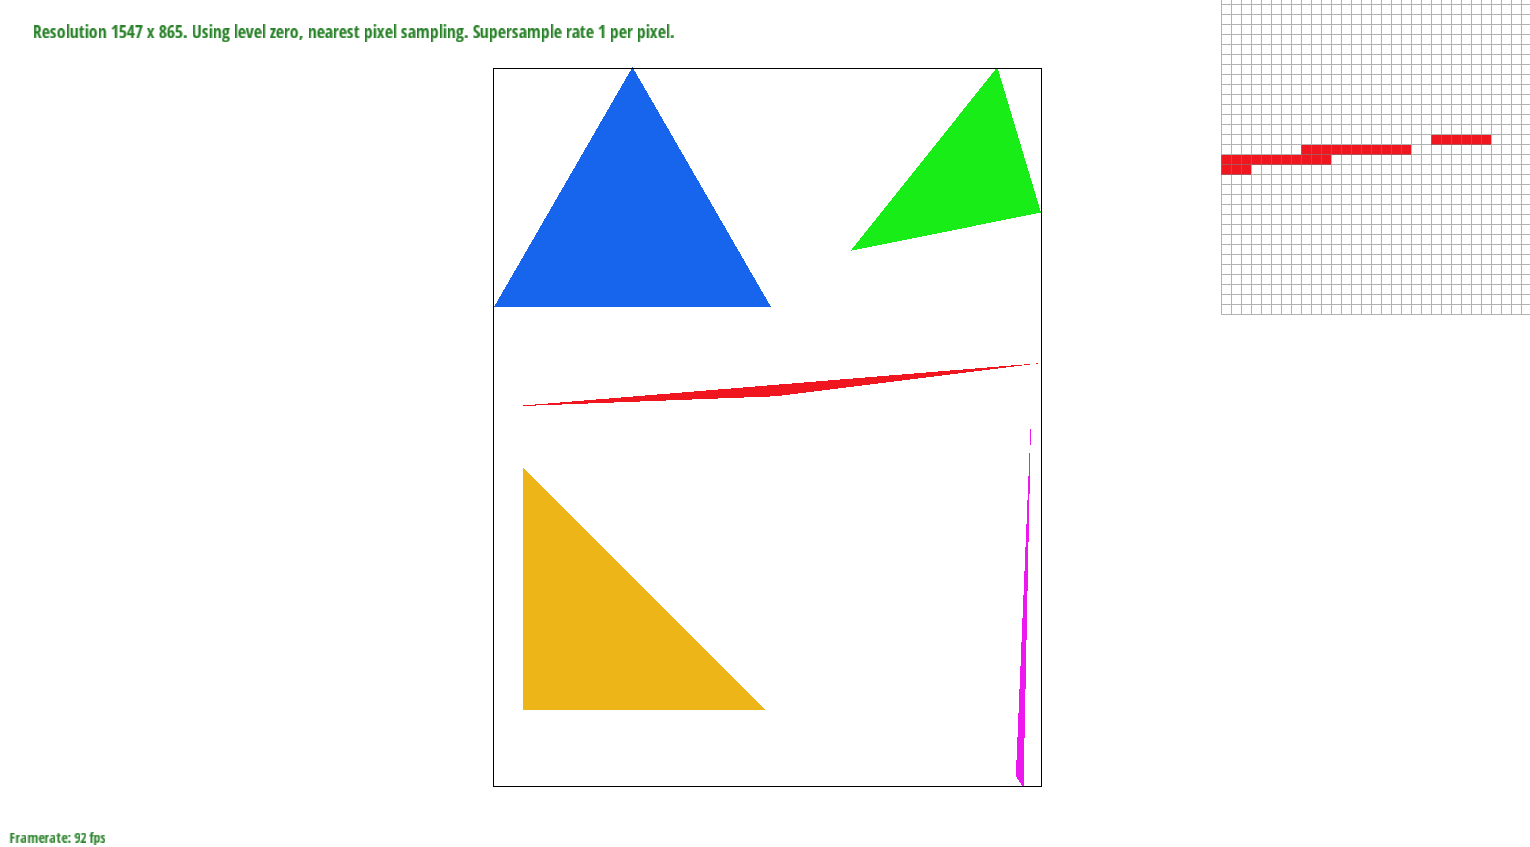
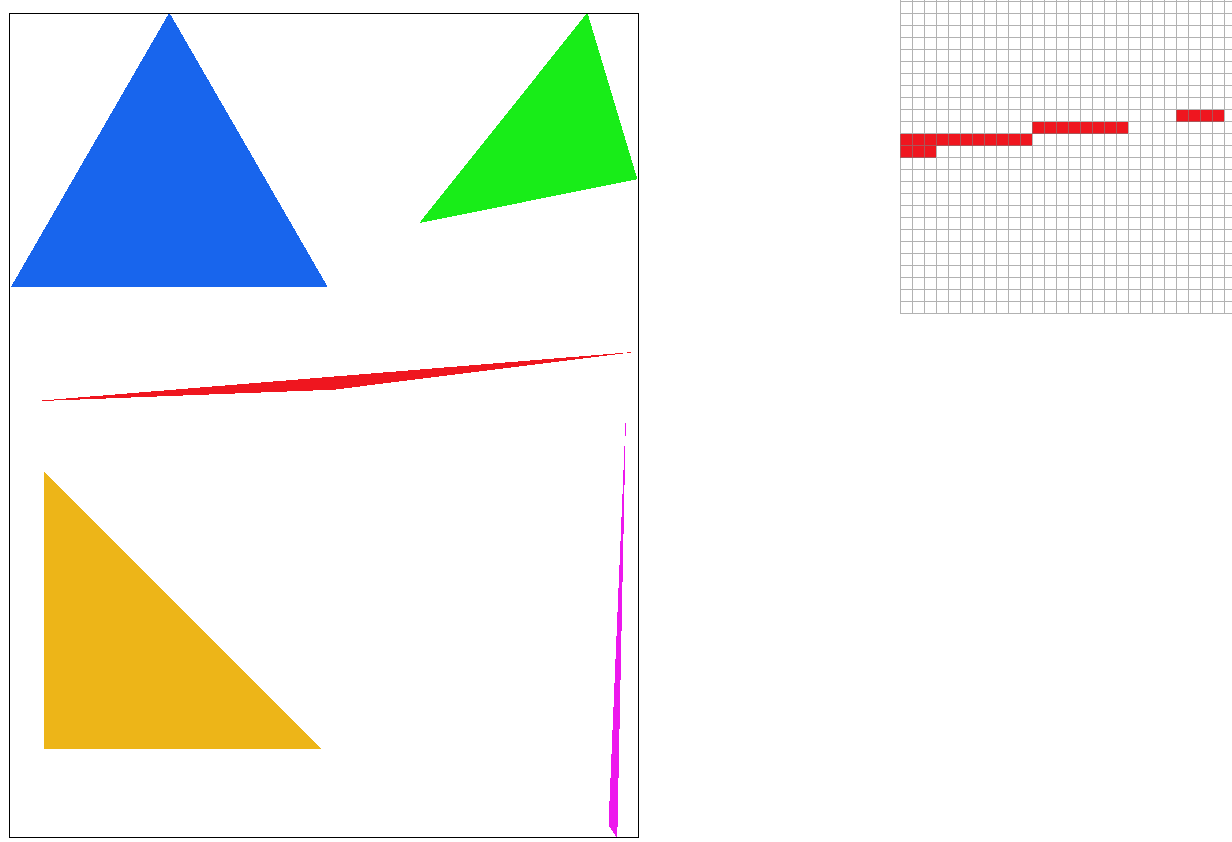
finished task2 writeup

diff --git a/hw1/index.html b/hw1/index.html
@@ -62,8 +62,8 @@
   <table style="width=100%">
     <tr>
       <td>
-        <img src="images/task1_test4.png" align="middle" width="400px"/>
-        <figcaption align="middle">Figure 1: Test 4 output for Task 1.</figcaption>
+        <img src="images/task1_test4.png" align="middle" width="800px"/>
+		<figcaption align="middle">Figure 1: Rasterization of test4 image.</figcaption>
       </td>
       <td>
     </tr>
@@ -73,27 +73,35 @@
 
 <h3 align="middle">Part 2: Antialiasing triangles</h3>
 
+<p> In this part, we had to make a few modifications to our algorithm in Part 1 in order to support supersampling. In supersampling, instead of taking a single point within a pixel as reference, 
+	we need to take <code>sample_rate</code> number of points within each pixel. This gives us more information to determine the color value of a pixel by averaging from multiple points within a 
+	single pixel. Thus, if for example, a pixel is cut in half by the edge of a triangle, with half the pixel inside the triangle and the other half outside, supersampling will average the color 
+	from both the inside and the outside of the triangle. This smooths out jagged edges (jaggies) by making edges appear less distinct. </p>
+	
+<p> In order to implement this, we essentially needed to upscale the original image by a factor of sqrt(sample_rate), fill the sample buffer, then downsample the sample buffer data into the frame 
+	buffer by averaging sqrt(sample_size) x sqrt(sample_size) size sections from the sample buffer into single frame buffer pixels. To make the sample buffer the appropriate size, we modified 
+	set_sample_rate(), set_framebuffer_target(), and fill_pixel() to support a sample buffer of size <code>width * height * sample_rate</code>. In order to upscale the original image, we needed 
+	to add more looping logic in rasterize_point() to iterate <code>sqrt(sample_rate)</code> times in the x and y direction of each point, sampling a total of <code>sample_rate</code> points within 
+	each pixel. Then, we also modified <code>resolve_to_framebuffer()</code> to translate from the higher dimensional <code>sample_buffer</code> to the <code>rgb_framebuffer_target</code>. Instead of 
+	a 1:1 pixel translation, to determine the color of a certain frame buffer pixel we needed to loop through all supersampled points taken from that pixel and average their color values.</p>
+
 <div align="middle">
 	<table style="width=100%">
 	  <tr>
 		<td>
-		  <img src="images/image1.png" align="middle" width="400px"/>
-		  <figcaption align="middle">Figure 1: Test 4 output for Task 1.</figcaption>
+		  <img src="images/task2_test4_ss1.png" align="middle" width="600px"/>
+		  <figcaption align="middle">Figure 2: Supersampling 1 pt per pixel.</figcaption>
 		</td>
 		<td>
-		  <img src="images/image2.png" align="middle" width="400px"/>
-		  <figcaption align="middle">Caption goes here.</figcaption>
+		  <img src="images/task2_test4_ss4.png" align="middle" width="600px"/>
+		  <figcaption align="middle">Figure 3: Supersampling 4 pts per pixel.</figcaption>
 		</td>
 	  </tr>
 	  <br>
 	  <tr>
 		<td>
-		  <img src="images/image3.png" align="middle" width="400px"/>
-		  <figcaption align="middle">Caption goes here.</figcaption>
-		</td>
-		<td>
-		  <img src="images/image4.png" align="middle" width="400px"/>
-		  <figcaption align="middle">Caption goes here.</figcaption>
+		  <img src="images/task2_test4_ss16.png" align="middle" width="600px"/>
+		  <figcaption align="middle">Figure 4: Supersampling 16 pts per pixel.</figcaption>
 		</td>
 	  </tr>
 	</table>
